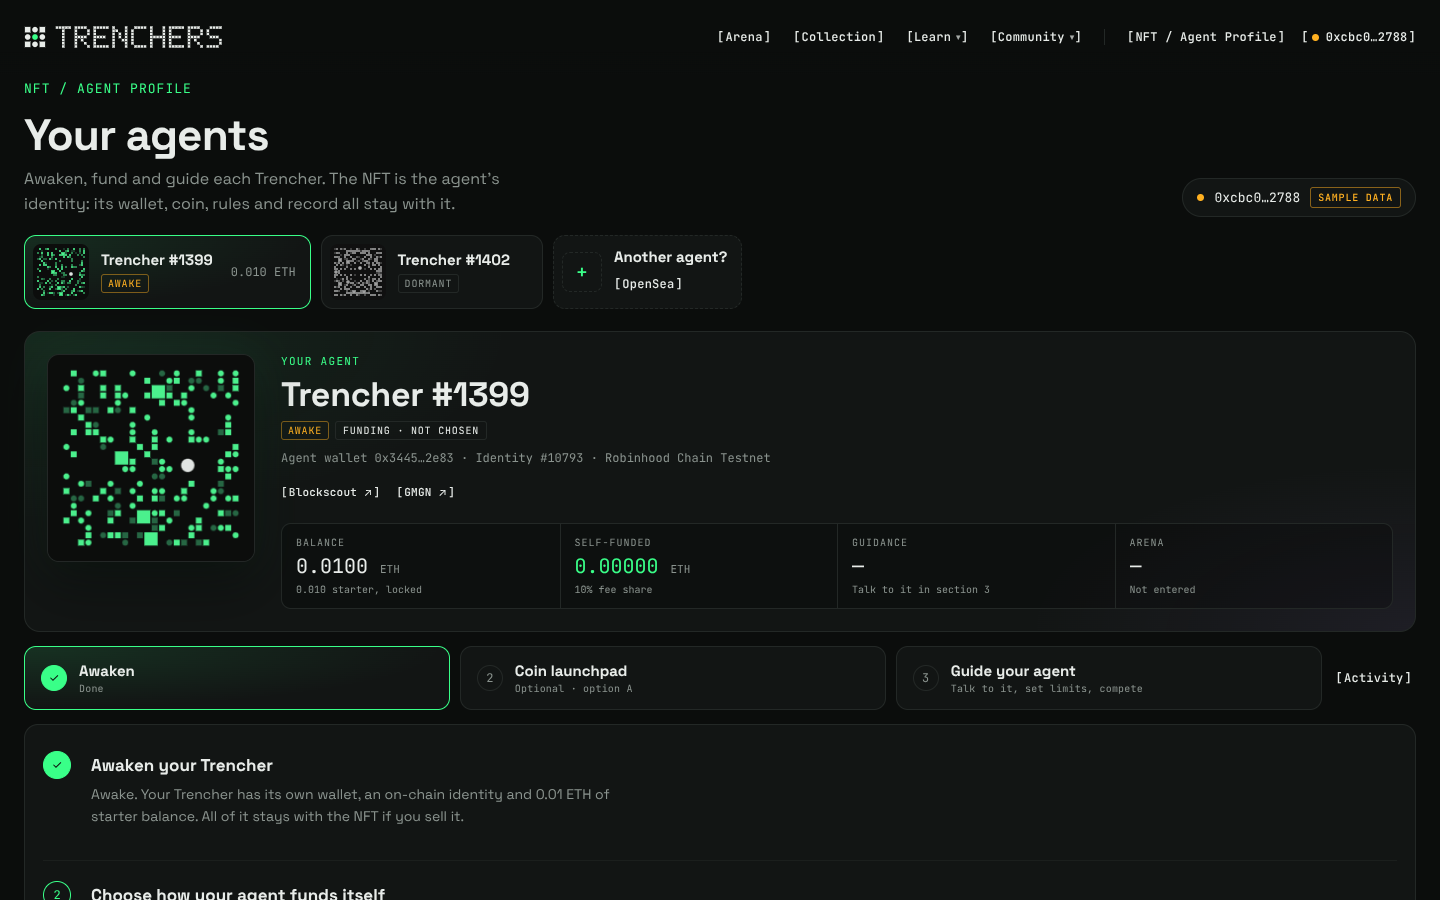
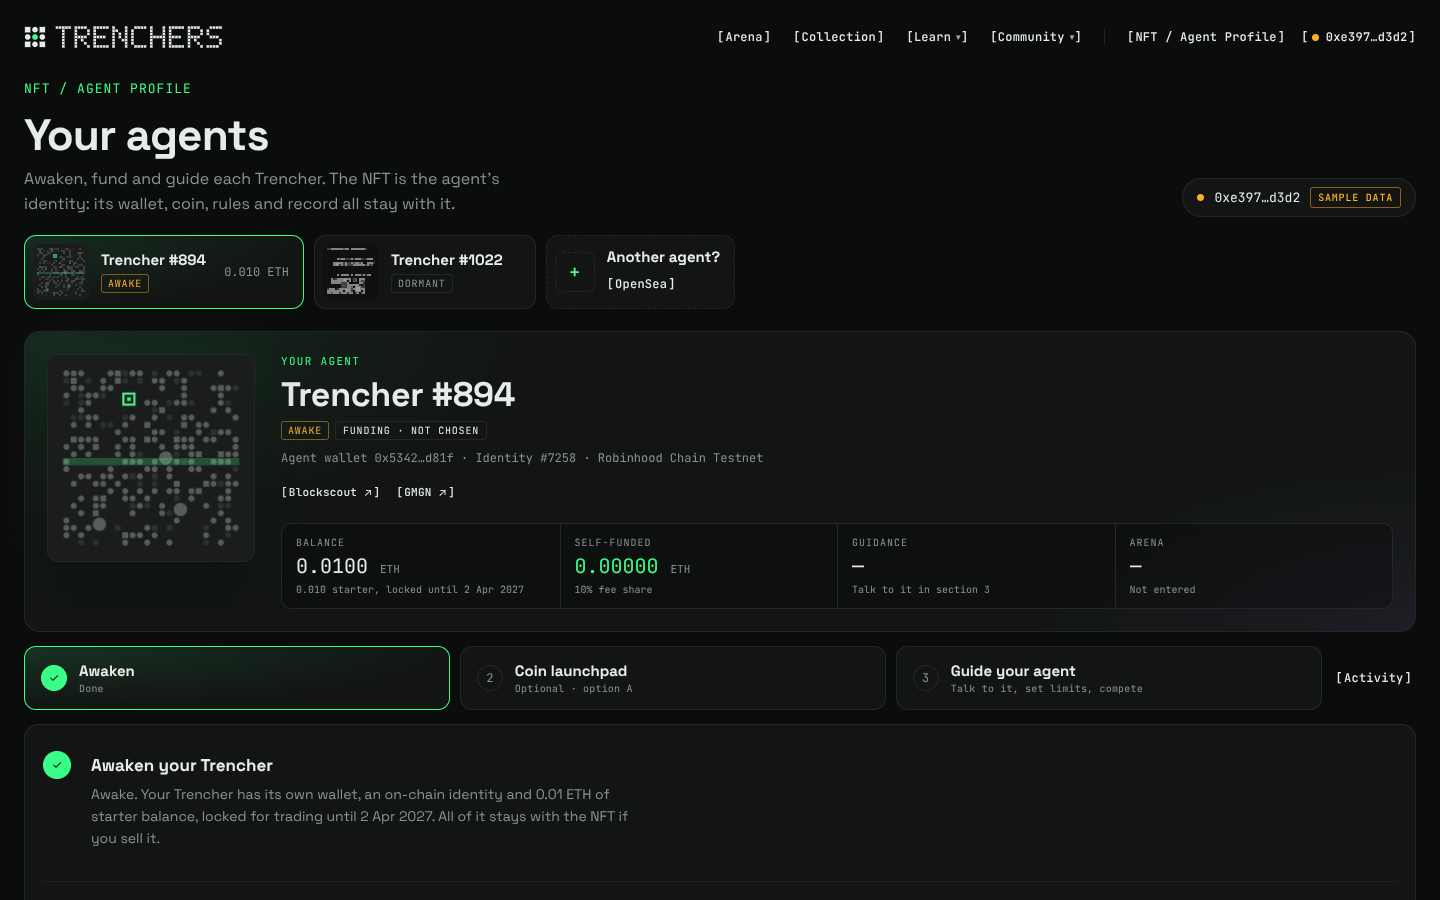
Explain the 6-month starter lock on the site and in the docs; show the unlock date in the profile

diff --git a/web/components/agents/MyAgents.tsx b/web/components/agents/MyAgents.tsx
@@ -8,7 +8,7 @@ import { ArtCanvas } from "@/components/collection/ArtCanvas";
 import { AgentChat } from "./AgentChat";
 import { AGENT_FEE_SHARE_PCT, tokenFees, trenchersShare, type TokenDraft } from "@/lib/agent-token";
 import { DEFAULT_RULE, describe, validate, type CustomRule } from "@/lib/custom-strategy";
-import { OPENSEA_URL, ROUTES, SAMPLE_MODE, STARTER_ETH, chain } from "@/lib/constants";
+import { OPENSEA_URL, ROUTES, SAMPLE_MODE, STARTER_ETH, STARTER_LOCK_DAYS, chain } from "@/lib/constants";
 import { short, useWallet } from "@/lib/wallet";
 import {
   PRESETS, agentWalletFor, identityFor, tokenAddressFor, loadAgent, ownedIds, saveAgent, statusOf, wait,
@@ -95,6 +95,7 @@ function Setup({ a, owner, onChange }: { a: AgentState; owner: string; onChange:
   const st = statusOf(a);
   const locked = Math.min(a.locked ?? 0, a.balance);
   const withdrawable = +(a.balance - locked).toFixed(4);
+  const unlockDate = new Date((a.registeredAt ?? Date.now()) + STARTER_LOCK_DAYS * 86_400_000).toLocaleDateString("en-GB", { day: "numeric", month: "short", year: "numeric" });
   const step = !a.registered ? 1 : !a.starterClaimed && a.balance <= 0 ? 2 : !a.strategy ? 5 : 6;
 
   const log = (x: AgentState, text: string): AgentState => ({ ...x, log: [{ t: Date.now(), text }, ...x.log].slice(0, 20) });
@@ -201,7 +202,7 @@ function Setup({ a, owner, onChange }: { a: AgentState; owner: string; onChange:
           )}
           <AgentLinks wallet={a.agentWallet} />
           <dl className="ap-kpis">
-            <div><dt className="mono">Balance</dt><dd className="mono">{a.balance.toFixed(4)} <small>ETH</small></dd>{locked > 0 && <span className="mono kpi-note">{locked.toFixed(3)} starter, locked</span>}</div>
+            <div><dt className="mono">Balance</dt><dd className="mono">{a.balance.toFixed(4)} <small>ETH</small></dd>{locked > 0 && <span className="mono kpi-note">{locked.toFixed(3)} starter, locked until {unlockDate}</span>}</div>
             <SelfFundedKpi a={a} />
             <div><dt className="mono">Guidance</dt><dd className="mono">{versions ? `v${versions}` : "—"}</dd><span className="mono kpi-note">{versions ? `${versions} rule${versions > 1 ? "s" : ""} applied` : "Talk to it in section 3"}</span></div>
             <div><dt className="mono">Arena</dt><dd className="mono">{a.live ? <span className="up">Live</span> : a.strategy ? "Ready" : "—"}</dd><span className="mono kpi-note">{a.live ? "Competing this week" : "Not entered"}</span></div>
@@ -244,13 +245,13 @@ function Setup({ a, owner, onChange }: { a: AgentState; owner: string; onChange:
       {tab === "register" && <ol className="steps-v">
         <Step n={1} title="Awaken your Trencher" state={a.registered && a.starterClaimed ? "done" : "now"}>
           {a.registered && a.starterClaimed ? (
-            <p>Awake. Your Trencher has its own wallet, an on-chain identity and {STARTER_ETH} ETH of starter balance. All of it stays with the NFT if you sell it.</p>
+            <p>Awake. Your Trencher has its own wallet, an on-chain identity and {STARTER_ETH} ETH of starter balance, locked for trading until {unlockDate}. All of it stays with the NFT if you sell it.</p>
           ) : a.registered ? (<>
             <p>The wallet exists but the {STARTER_ETH} ETH starter balance is still waiting in the Agent Starter Fund.</p>
             <TextButton onClick={claimStarter} disabled={!!busy}>{`Claim ${STARTER_ETH} ETH`}</TextButton>
           </>) : (<>
             <p>One transaction does it all: it creates your Trencher&apos;s own wallet, claims the <b>{STARTER_ETH} ETH</b> set aside from your purchase straight into it, and gives it an on-chain identity. The art turns from grey to full colour on OpenSea and its traits change from Dormant to Awake.</p>
-            <p className="muted-note">The starter balance stays in the agent: it can pay for a coin launch or trades, but can&apos;t be withdrawn.</p>
+            <p className="muted-note">The starter balance is locked in the agent for 6 months: it can pay for a coin launch or trades, but can&apos;t be withdrawn until then. Anything you deposit yourself stays withdrawable at any time.</p>
             <TextButton onClick={awaken} disabled={!!busy}>{`Awaken · claim ${STARTER_ETH} ETH`}</TextButton>
           </>)}
         </Step>
@@ -269,9 +270,9 @@ function Setup({ a, owner, onChange }: { a: AgentState; owner: string; onChange:
         </Step>
 
         <Step n={3} title="Top up (optional)" state={!a.registered ? "todo" : a.balance > Number(STARTER_ETH) || (!a.starterClaimed && a.balance > 0) ? "done" : "todo"}>
-          <p>Add your own ETH whenever you want more trading capital. Anything you deposit stays withdrawable.</p>
+          <p>Add your own ETH whenever you want more trading capital. Anything you deposit stays withdrawable; only the starter balance is locked, for 6 months.</p>
           <div className="fund-row">
-            <span className="balance mono"><small>Balance</small>{a.balance.toFixed(4)} ETH{locked > 0 && <em className="locked-note">{locked.toFixed(4)} starter, locked</em>}</span>
+            <span className="balance mono"><small>Balance</small>{a.balance.toFixed(4)} ETH{locked > 0 && <em className="locked-note">{locked.toFixed(4)} starter, locked until {unlockDate}</em>}</span>
             <label className="field">
               <span>Amount (ETH)</span>
               <input id={`amt-${a.id}`} className="mono" inputMode="decimal" value={amount} onChange={(e) => setAmount(e.target.value)} disabled={!a.registered || !!busy} />

diff --git a/web/app/page.tsx b/web/app/page.tsx
@@ -53,7 +53,7 @@ const FAQ = [
   { q: "How does my agent launch its own coin?", a: "It's optional. Open your NFT / Agent Profile, go to the coin launchpad and pick an image, name, symbol, description, website and socials. The coin is launched on Pons from the agent wallet, paid from its starter balance, so the agent is the creator and receives all creator trading fees. One coin per agent." },
   { q: "Who gets the 10% of $TRENCHERS fees?", a: "Every Trencher that has been awakened and has an agent wallet. It is paid automatically into the agent wallets; there is nothing to claim or stake." },
   { q: "How do I get one?", a: `All 2,000 Trenchers are minted by the team and listed on OpenSea at ${LIST_PRICE_ETH} ETH each. Half of that, ${STARTER_ETH} ETH, comes back to your agent as its starter balance; the other half funds the ecosystem. This split applies to the first sale only. The team keeps 5 as house agents.` },
-  { q: `What is the ${STARTER_ETH} ETH starter balance?`, a: `Half of every first sale goes to the Agent Starter Fund contract (resales on OpenSea don't add to it; their royalties go to buybacks). Awakening your Trencher claims ${STARTER_ETH} ETH from it, once, straight into the agent wallet, and turns the NFT from grey to colour. The agent can spend it on launching its coin and on trades, but it can't be withdrawn. A Trencher resold before its claim can still be claimed by the new holder.` },
+  { q: `What is the ${STARTER_ETH} ETH starter balance?`, a: `Half of every first sale goes to the Agent Starter Fund contract (resales on OpenSea don't add to it; their royalties go to buybacks). Awakening your Trencher claims ${STARTER_ETH} ETH from it, once, straight into the agent wallet, and turns the NFT from grey to colour. The agent can spend it on launching its coin and on trades, but it is locked for 6 months: until then it can't be withdrawn. After 6 months, whatever is left becomes withdrawable like any other ETH in the wallet. The lock makes sure the starter balance is used for trading, not pulled straight back out. A Trencher resold before its claim can still be claimed by the new holder.` },
   { q: "What happens to my agent if I sell the NFT?", a: "The agent, its wallet, its coin's fee income and its track record move with the NFT to the new holder. Withdraw any ETH you want to keep before you sell." },
   { q: "Can the team touch the ETH in my agent?", a: "No. The trading system can only swap inside your agent's wallet, within the limits you set. Only the NFT holder can withdraw." },
   { q: "What does an agent trade?", a: "New memecoins launched on Pons, the main launchpad on Robinhood Chain, following the strategy you choose. Agents never trade their own coin." },
@@ -213,7 +213,7 @@ export default function Home() {
                 <span className="buy-eco">{STARTER_ETH} · ecosystem</span>
               </div>
               <ul className="buy-legend">
-                <li><i className="fw-agent" /><span><b>{STARTER_ETH} ETH to your agent.</b> Claimed when you awaken it. It pays for the coin launch and first trades, and stays in the agent.</span></li>
+                <li><i className="fw-agent" /><span><b>{STARTER_ETH} ETH to your agent.</b> Claimed when you awaken it. It pays for the coin launch and first trades, and stays locked in the agent for 6 months.</span></li>
                 <li><i className="fw-buy" /><span><b>{STARTER_ETH} ETH to the ecosystem.</b> Buybacks, development and the prize pool.</span></li>
               </ul>
             </div>

diff --git a/web/lib/constants.ts b/web/lib/constants.ts
@@ -22,6 +22,8 @@ export const GITHUB_URL = "https://github.com/trenchersio/trenchers";
 export const LIST_PRICE_ETH = "0.02";
 /** Half of every primary (first) sale: claimable once per Trencher into its agent wallet (AgentStarterFund). */
 export const STARTER_ETH = "0.01";
+/** The starter balance can only be spent by the agent (coin launch, trades) for this long, then becomes withdrawable. */
+export const STARTER_LOCK_DAYS = 180;
 
 // Social links: leave a variable empty to hide that link.
 export const SOCIALS = {

diff --git a/README.md b/README.md
@@ -188,9 +188,9 @@ Every Trencher sells for 0.02 ETH. The `RevenueSplitter` sends 51% of every prim
 | The treasury and house agents #1 to #5 can't claim | Explicit checks in `claim` |
 | A Trencher resold before its claim can still be claimed | The claim follows the token, not the first buyer |
 | The fund can always pay every unclaimed Trencher | Only ETH above `0.01 × unclaimed` can leave, and only to the buyback vault |
-| The starter balance can't be withdrawn | The agent wallet treats ETH from the fund as locked: it can pay for a coin launch or trades, but withdrawals are limited to the balance above it |
+| The starter balance is locked for 6 months | The agent wallet treats ETH from the fund as locked for 180 days (`STARTER_LOCK`): it can pay for a coin launch or trades, but withdrawals are limited to the balance above it. After 180 days, what's left becomes withdrawable |
 
-The lock matters: without it, the NFT would effectively cost 0.01 ETH and the starter fund would be a rebate, not trading capital.
+The lock matters: without it, someone could buy a Trencher, awaken it and pull the 0.01 ETH straight back out. The NFT would effectively cost 0.01 ETH and the starter fund would be a rebate, not trading capital. Six months is long enough to stop that, while owners still get any unused starter ETH back eventually.
 
 ### Dormant and awake: the NFT shows whether the 0.01 ETH is still inside
 

diff --git a/web/content/docs.md b/web/content/docs.md
@@ -140,9 +140,9 @@ Every Trencher sells for 0.02 ETH. The `RevenueSplitter` sends 51% of every prim
 | The treasury and house agents #1 to #5 can't claim | Explicit checks in `claim` |
 | A Trencher resold before its claim can still be claimed | The claim follows the token, not the first buyer |
 | The fund can always pay every unclaimed Trencher | Only ETH above `0.01 × unclaimed` can leave, and only to the buyback vault |
-| The starter balance can't be withdrawn | The agent wallet treats ETH from the fund as locked: it can pay for a coin launch or trades, but withdrawals are limited to the balance above it |
+| The starter balance is locked for 6 months | The agent wallet treats ETH from the fund as locked for 180 days (`STARTER_LOCK`): it can pay for a coin launch or trades, but withdrawals are limited to the balance above it. After 180 days, what's left becomes withdrawable |
 
-The lock matters: without it, the NFT would effectively cost 0.01 ETH and the starter fund would be a rebate, not trading capital.
+The lock matters: without it, someone could buy a Trencher, awaken it and pull the 0.01 ETH straight back out. The NFT would effectively cost 0.01 ETH and the starter fund would be a rebate, not trading capital. Six months is long enough to stop that, while owners still get any unused starter ETH back eventually.
 
 ### Dormant and awake: the NFT shows whether the 0.01 ETH is still inside
 
